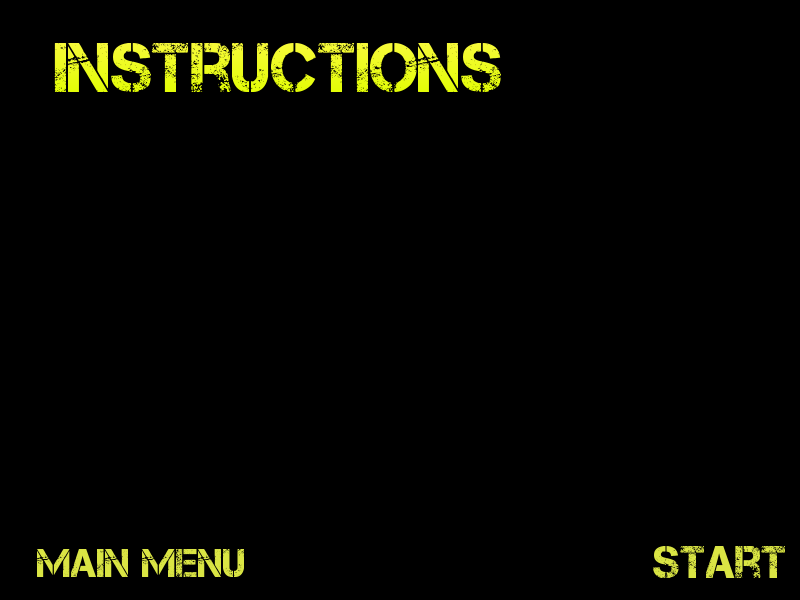
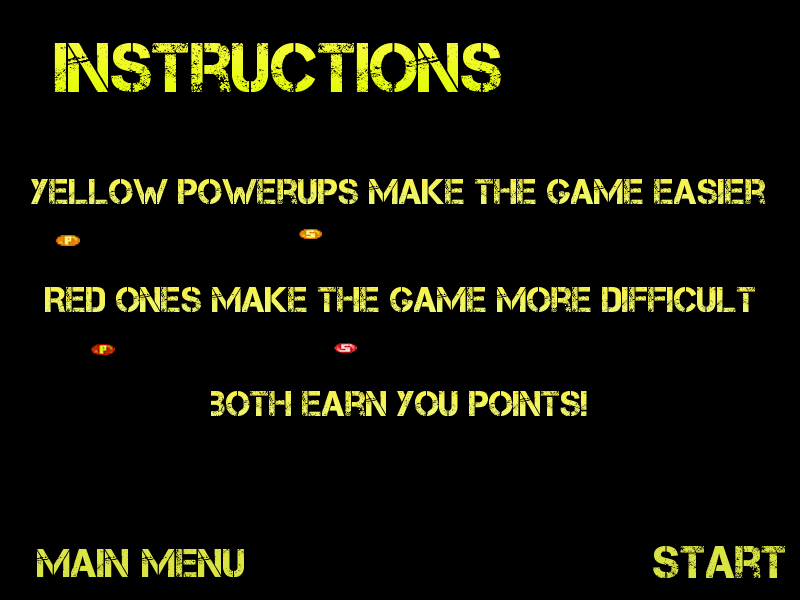
updated instructions screen 2

diff --git a/src/tutorials/slickout/mainmenu/MainMenuGameState.java b/src/tutorials/slickout/mainmenu/MainMenuGameState.java
@@ -82,7 +82,7 @@ public class MainMenuGameState extends BasicGameState implements MouseListener{
 			game.enterState(3);
 		}else if(optionSelected == 3){
 			//go to high score display
-			game.enterState(4);
+			game.enterState(5);
 		}else if(optionSelected == 4){
 			System.exit(0);
 		}

diff --git a/src/tutorials/slickout/mainmenu/BriefingGameState.java b/src/tutorials/slickout/mainmenu/BriefingGameState.java
@@ -31,7 +31,8 @@ public class BriefingGameState extends BasicGameState implements MouseListener {
 			throws SlickException {
 		
 		container.setMouseGrabbed(false);
-		
+		screen=1;
+		background = new Image("data/instructionsPage.png");
 		selection = -1;
 		optionSelected = selection;
 
